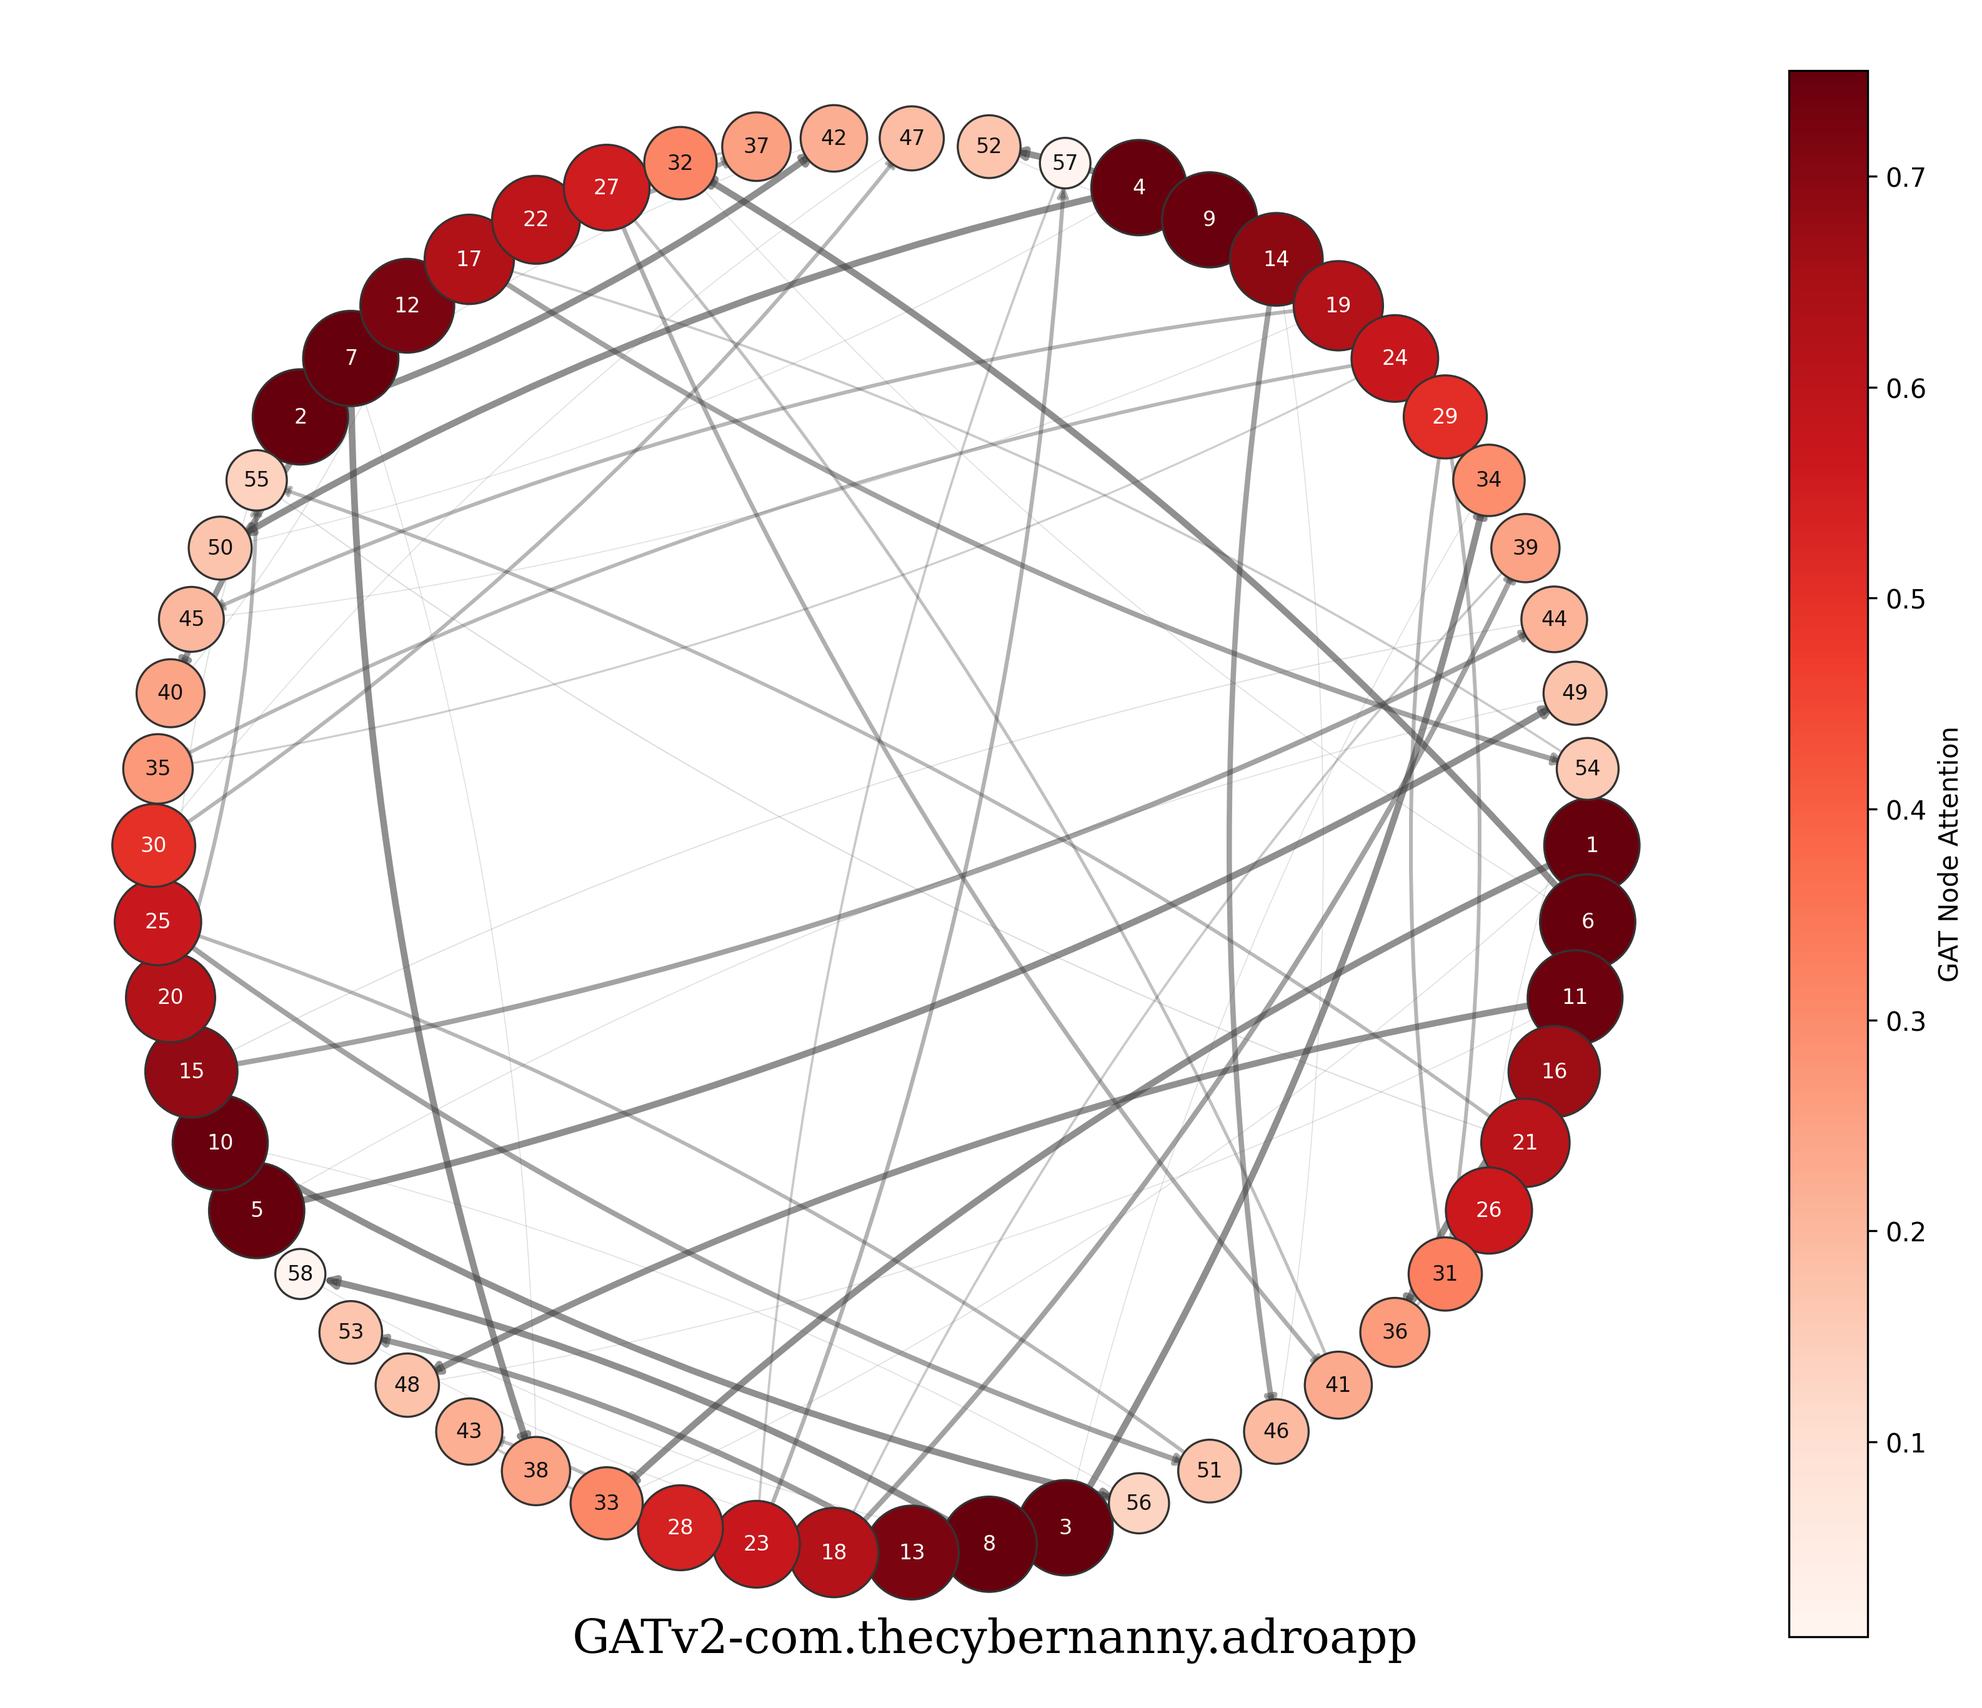
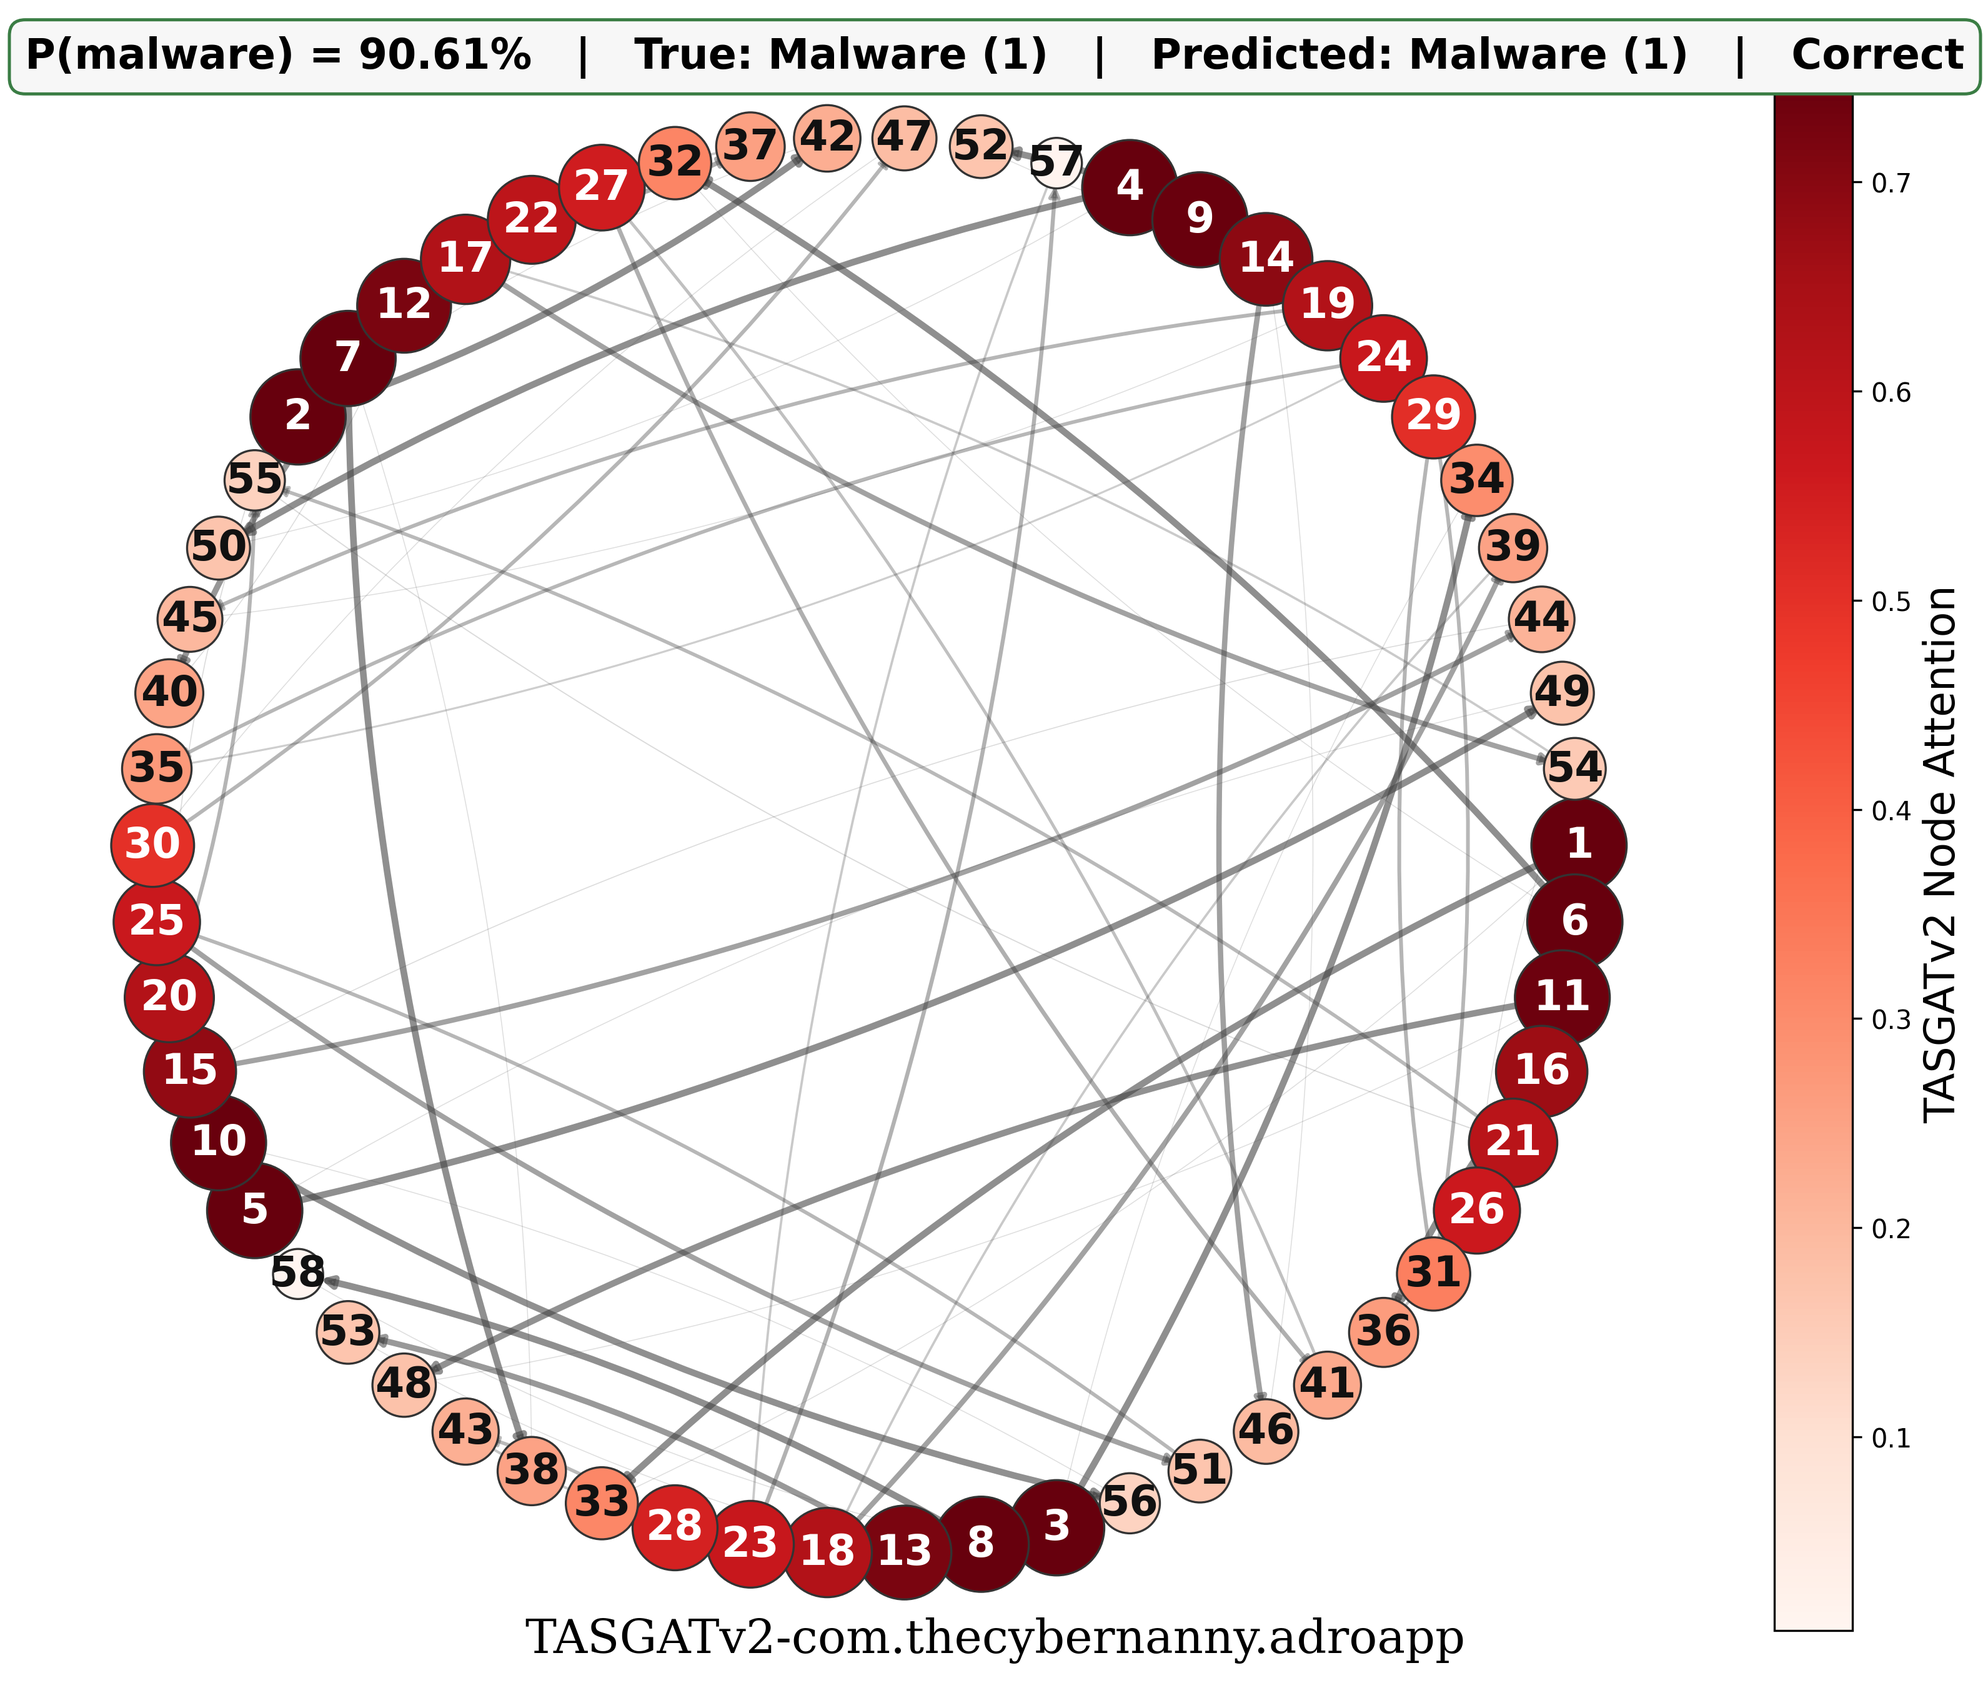
change tasgatv2

diff --git a/phase2/graph/visualize_attention.py b/phase2/graph/visualize_attention.py
@@ -16,8 +16,8 @@ python3 -m phase2.graph.visualize_attention \
   --max-display-nodes 60 \
   --max-display-edges 180 \
   --circular-order spread \
-  --title "TA-SGATv2-com.pcsensi.app" \
-  --sample-id com.pcsensi.app \
+  --title "TASGATv2-org.ooma.oomaapp" \
+  --sample-id org.ooma.oomaapp \
   --output-dir ml_explain
 
 如果你想更像论文里“自然分散”的网络结构，也可以直接用力导向布局：
@@ -49,7 +49,7 @@ def raise_csv_field_limit() -> None:
 
 def parse_args() -> argparse.Namespace:
     parser = argparse.ArgumentParser(
-        description="Build publication-style TA-SGATv2 attention figures from graph explanation CSV files."
+        description="Build publication-style TASGATv2 attention figures from graph explanation CSV files."
     )
     parser.add_argument(
         "--run-dir",
@@ -119,12 +119,24 @@ def parse_args() -> argparse.Namespace:
     parser.add_argument(
         "--include-self-loops",
         action="store_true",
-        help="Draw TA-SGATv2 self-loop attention edges. Disabled by default because they usually clutter paper figures.",
+        help="Draw TASGATv2 self-loop attention edges. Disabled by default because they usually clutter paper figures.",
     )
-    parser.add_argument("--title", default=None, help="Optional short title shown under the graph, for example '(b) TA-SGATv2'.")
+    parser.add_argument("--title", default=None, help="Optional short title shown under the graph, for example '(b) TASGATv2'.")
     parser.add_argument("--formats", nargs="+", default=["png"], help="Output formats, for example: png pdf svg.")
     parser.add_argument("--dpi", type=int, default=300)
     parser.add_argument("--seed", type=int, default=42, help="Seed used by spring layout.")
+    parser.add_argument(
+        "--node-font-size",
+        type=float,
+        default=16.0,
+        help="Font size of node rank/id labels. Values above 12 may overflow small nodes.",
+    )
+    parser.add_argument(
+        "--info-font-size",
+        type=float,
+        default=16.0,
+        help="Font size of the prediction summary shown above the graph.",
+    )
     return parser.parse_args()
 
 
@@ -458,6 +470,14 @@ def build_edge_table_rows(
     return rows
 
 
+def class_label(value: int) -> str:
+    if value == 1:
+        return "Malware"
+    if value == 0:
+        return "Benign"
+    return "Unknown"
+
+
 def plot_attention_graph(
     output_base: Path,
     formats: Sequence[str],
@@ -470,6 +490,11 @@ def plot_attention_graph(
     label_mode: str,
     title: Optional[str],
     score_label: str,
+    prob_malware: float,
+    y_true: int,
+    pred: int,
+    node_font_size: float,
+    info_font_size: float,
     dpi: int,
     seed: int,
 ) -> None:
@@ -515,6 +540,31 @@ def plot_attention_graph(
     fig, ax = plt.subplots(figsize=(fig_width, fig_height), constrained_layout=True)
     ax.set_axis_off()
 
+    true_name = class_label(y_true)
+    pred_name = class_label(pred)
+    if y_true in {0, 1} and pred in {0, 1}:
+        correctness = "Correct" if y_true == pred else "Incorrect"
+    else:
+        correctness = "Label unavailable"
+    summary = (
+        f"P(malware) = {prob_malware:.2%}   |   "
+        f"True: {true_name} ({y_true})   |   "
+        f"Predicted: {pred_name} ({pred})   |   {correctness}"
+    )
+    summary_edge = "#3A7D44" if y_true == pred and y_true in {0, 1} else "#B03A2E"
+    fig.suptitle(
+        summary,
+        fontsize=info_font_size,
+        fontweight="semibold",
+        y=0.985,
+        bbox={
+            "boxstyle": "round,pad=0.38",
+            "facecolor": "#F7F7F7",
+            "edgecolor": summary_edge,
+            "linewidth": 1.2,
+        },
+    )
+
     for (src, dst, data), width, alpha in zip(graph.edges(data=True), edge_widths, edge_alphas):
         nx.draw_networkx_edges(
             graph,
@@ -557,13 +607,15 @@ def plot_attention_graph(
                 label,
                 ha="center",
                 va="center",
-                fontsize=8,
+                fontsize=node_font_size,
+                fontweight="semibold",
                 color=font_color,
                 zorder=10,
             )
 
     colorbar = fig.colorbar(node_collection, ax=ax, fraction=0.046, pad=0.04)
-    colorbar.set_label(score_label)
+    colorbar.set_label(score_label, fontsize=16)
+    colorbar.ax.tick_params(labelsize=10)
 
     if title:
         fig.text(0.5, 0.02, title, ha="center", va="bottom", fontsize=18, family="serif")
@@ -634,9 +686,11 @@ def main() -> None:
     title = args.title
     output_base = output_dir / safe_filename(sample_id)
 
-    score_label = "GAT Node Attention"
+    score_label = "TASGATv2 Node Attention"
     if score_column == "normalized_attention":
-        score_label = "Normalized GAT Node Attention"
+        score_label = "Normalized TASGATv2 Node Attention"
+
+    sample_metadata = next(iter(nodes.values()))
 
     plot_attention_graph(
         output_base=output_base,
@@ -650,6 +704,11 @@ def main() -> None:
         circular_order=args.circular_order,
         title=title,
         score_label=score_label,
+        prob_malware=float(sample_metadata["prob_malware"]),
+        y_true=int(sample_metadata["y_true"]),
+        pred=int(sample_metadata["pred"]),
+        node_font_size=args.node_font_size,
+        info_font_size=args.info_font_size,
         dpi=args.dpi,
         seed=args.seed,
     )

diff --git a/phase2/lightgbm/explain.py b/phase2/lightgbm/explain.py
@@ -458,7 +458,7 @@ def plot_waterfall(
             f" {value:+.4g}",
             va="center",
             ha="left" if value >= 0 else "right",
-            fontsize=8,
+            fontsize=16,
             color=color,
         )
 
@@ -466,12 +466,12 @@ def plot_waterfall(
     ax.axvline(base_value, color="#666666", linestyle="--", linewidth=1.0, label=f"E[f(x)]={base_value:.4g}")
     ax.axvline(final_value, color="#111111", linewidth=1.1, label=f"f(x)={final_value:.4g}")
     ax.set_yticks(y_positions)
-    ax.set_yticklabels([short_feature_name(str(row["feature"])) for row in display_rows])
+    ax.set_yticklabels([short_feature_name(str(row["feature"])) for row in display_rows],fontsize=16)
     ax.invert_yaxis()
-    ax.set_xlabel("Model output for malware class (log-odds)")
-    ax.set_title(f"SHAP Waterfall: {sample_id} | p_malware={prob:.4f}, y={y_true}, pred={pred}")
+    ax.set_xlabel("Model output for malware class (log-odds)",fontsize=16)
+    ax.set_title(f"SHAP Waterfall: {sample_id} | p_malware={prob:.4f}, y={y_true}, pred={pred}",fontsize=16)
     ax.grid(axis="x", color="#dddddd", linewidth=0.6, alpha=0.8)
-    ax.legend(loc="best", fontsize=8)
+    ax.legend(loc="best", fontsize=16)
     paths = save_figure(fig, output_base, formats, dpi)
     plt.close(fig)
     return paths
@@ -712,9 +712,9 @@ ml_explain/{id}/shap_paper_figures/{id}.png
 python3 -m phase2.lightgbm.explain \
   --input /home/linux/7T/lzw/datasets/android_zoo/android_static \
   --model-dir runs/lightgbm/07-04_12-58_best/models \
-  --output ml_explain/com.pcsensi.app \
+  --output ml_explain/com.socialapps.homeplus \
   --split test \
-  --waterfall-sample-id com.pcsensi.app
+  --waterfall-sample-id com.socialapps.homeplus
 而且不只是跳过画图，我还改了计算逻辑：指定 --waterfall-sample-id 时默认只对这个 APK 计算 SHAP，不再对 --max-samples 800 里的所有样本算一遍，所以速度会明显快。
 
 

diff --git a/phase2/graph/train.py b/phase2/graph/train.py
@@ -32,7 +32,7 @@ def dataloader_kwargs(worker_count: int, prefetch_factor: int) -> dict:
 
 
 def parse_args() -> argparse.Namespace:
-    parser = argparse.ArgumentParser(description="训练 TA-SGATv2 图分类器")
+    parser = argparse.ArgumentParser(description="训练 TASGATv2 图分类器")
     parser.add_argument("--input", help="hetero_graphs 根目录；若存在 train/val 子目录，训练只读取这两个 split")
     parser.add_argument("--index", help="phase1/build_heterogeneous.py 生成的 index.csv")
     parser.add_argument("--output", required=True, help="训练运行目录，例如 runs/hetero_gatv2")
@@ -42,8 +42,8 @@ def parse_args() -> argparse.Namespace:
     parser.add_argument("--layers", type=int, default=2)
     parser.add_argument("--heads", type=int, default=4)
     parser.add_argument("--dropout", type=float, default=0.25)
-    parser.add_argument("--model-type", default="ta-sgatv2", choices=["ta-sgatv2", "hgt"])
-    parser.add_argument("--type-embedding-dim", type=int, default=16, help="TA-SGATv2 同构图中的节点类型嵌入维度，0则退化为标准GATv2")
+    parser.add_argument("--model-type", default="tasgatv2", choices=["tasgatv2", "hgt"])
+    parser.add_argument("--type-embedding-dim", type=int, default=16, help="TASGATv2 同构图中的节点类型嵌入维度，0则退化为标准GATv2")
     parser.add_argument("--lr", type=float, default=0.001)
     parser.add_argument("--weight-decay", type=float, default=1e-4)
     parser.add_argument("--test-size", type=float, default=0.2)

diff --git a/phase2/graph/model.py b/phase2/graph/model.py
@@ -53,7 +53,7 @@ def build_hgt_model(metadata, hidden_channels: int, num_layers: int, heads: int,
     return HGTGraphClassifier()
 
 
-def build_ta_sgatv2_model(
+def build_tasgatv2_model(
     metadata,
     hidden_channels: int,
     num_layers: int,
@@ -72,7 +72,7 @@ def build_ta_sgatv2_model(
             node_types, edge_types = metadata
             self.node_types = list(node_types)
             self.edge_types = list(edge_types)
-            self.model_type = "ta-sgatv2"
+            self.model_type = "tasgatv2"
             self.dropout = dropout
             self.type_embedding_dim = type_embedding_dim if self.node_types else 0
             self.node_type_embedding = (
@@ -140,11 +140,11 @@ def build_model(
     num_layers: int,
     heads: int,
     dropout: float,
-    model_type: str = "ta-sgatv2",
+    model_type: str = "tasgatv2",
     type_embedding_dim: int = 16,
 ):
     if model_type == "hgt":
         return build_hgt_model(metadata, hidden_channels, num_layers, heads, dropout)
-    if model_type == "ta-sgatv2":
-        return build_ta_sgatv2_model(metadata, hidden_channels, num_layers, heads, dropout, type_embedding_dim)
+    if model_type == "tasgatv2":
+        return build_tasgatv2_model(metadata, hidden_channels, num_layers, heads, dropout, type_embedding_dim)
     raise ValueError(f"未知图模型类型: {model_type}")

diff --git a/phase2/graph/explain.py b/phase2/graph/explain.py
@@ -215,8 +215,8 @@ def main() -> None:
     config = checkpoint["model_config"]
     metadata = checkpoint["metadata"]
     model_type = checkpoint.get("model_type") or config.get("model_type")
-    # if model_type != "ta-sgatv2":
-    #     raise SystemExit("当前 explain.py 只支持新 TA-SGATv2 checkpoint")
+    # if model_type != "tasgatv2":
+    #     raise SystemExit("当前 explain.py 只支持新 TASGATv2 checkpoint")
 
     device = "cuda" if args.device == "auto" and torch.cuda.is_available() else args.device
     if device == "auto":
@@ -228,7 +228,7 @@ def main() -> None:
         config["layers"],
         config["heads"],
         config["dropout"],
-        model_type="ta-sgatv2",
+        model_type="tasgatv2",
         type_embedding_dim=config.get("type_embedding_dim", 16),
     ).to(device)
 

diff --git a/phase3/aliyun_llm.py b/phase3/aliyun_llm.py
@@ -25,7 +25,7 @@ def parse_args() -> argparse.Namespace:
     parser.add_argument("--split", default="test")
     parser.add_argument("--output", default="runs/llm_explain")
     parser.add_argument("--static-predictions", default="inference/lightgbm/predictions/test_predictions.csv")
-    parser.add_argument("--graph-predictions", default="inference/ta-sgatv2/predictions/test_predictions.csv")
+    parser.add_argument("--graph-predictions", default="inference/tasgatv2/predictions/test_predictions.csv")
     parser.add_argument("--ensemble-predictions", default="ensemble/ensemble_predictions.csv")
     parser.add_argument("--shap-reports", default="explain/lightgbm/reports")
     parser.add_argument("--graph-explain-dir", default="explain/graph/explanations")

diff --git a/README.md b/README.md
@@ -80,7 +80,7 @@ outputs/
 训练阶段：
 
 - LightGBM 训练只读取 `outputs/static_reports/train` 和 `outputs/static_reports/val`。
-- TA-SGATv2 图模型训练只读取 `outputs/hetero_graphs/train` 和 `outputs/hetero_graphs/val`；根目录模式会根据目录名强制赋值 split，不依赖原始 JSON 或 index.csv 里的 split 字段。
+- TASGATv2 图模型训练只读取 `outputs/hetero_graphs/train` 和 `outputs/hetero_graphs/val`；根目录模式会根据目录名强制赋值 split，不依赖原始 JSON 或 index.csv 里的 split 字段。
 - train/val 不要求三个模态样本完全一致，因为它们只是分别训练各自模型。
 - 如果没有 train/val 子目录，代码才会回退到旧逻辑：扫描输入根目录并按已有 split 或随机切分。
 
@@ -171,7 +171,7 @@ python -m phase2.graph.train \
   --output runs/hetero_gatv2 \
   --epochs 60 \
   --batch-size 8 \
-  --model-type ta-sgatv2 \
+  --model-type tasgatv2 \
   --workers 4
 ```
 
@@ -190,7 +190,7 @@ HGT 训练每轮使用验证集 PR AUC 判断并保存最佳模型权重。
 python3 -m phase2.graph.inference \
   --input /home/linux/7T/lzw/datasets/android_zoo/android_graphs \
   --model-path runs/graph/08-04_11-16_zero/models/gatv2_model.pt \
-  --output inference/ta-sgatv2 \
+  --output inference/tasgatv2 \
   --split test
 ```
 
@@ -226,7 +226,7 @@ python3 -m phase2.graph.visualize_attention \
   --max-display-nodes 60 \
   --max-display-edges 180 \
   --circular-order spread \
-  --title "TA-SGATv2-com.pcsensi.app" \
+  --title "TASGATv2-com.pcsensi.app" \
   --sample-id com.pcsensi.app \
   --output-dir ml_explain
 ```
@@ -272,7 +272,7 @@ test:1:sample001,sample001,sample001.apk,test,1,0.932,1
 ```bash
 python ensemble_predict.py \
   --input static=inference/lightgbm/predictions/test_predictions.csv \
-  --input graph=inference/ta-sgatv2/predictions/test_predictions.csv \
+  --input graph=inference/tasgatv2/predictions/test_predictions.csv \
   --output ensemble \
   --tune-weights \
   --tune-threshold
